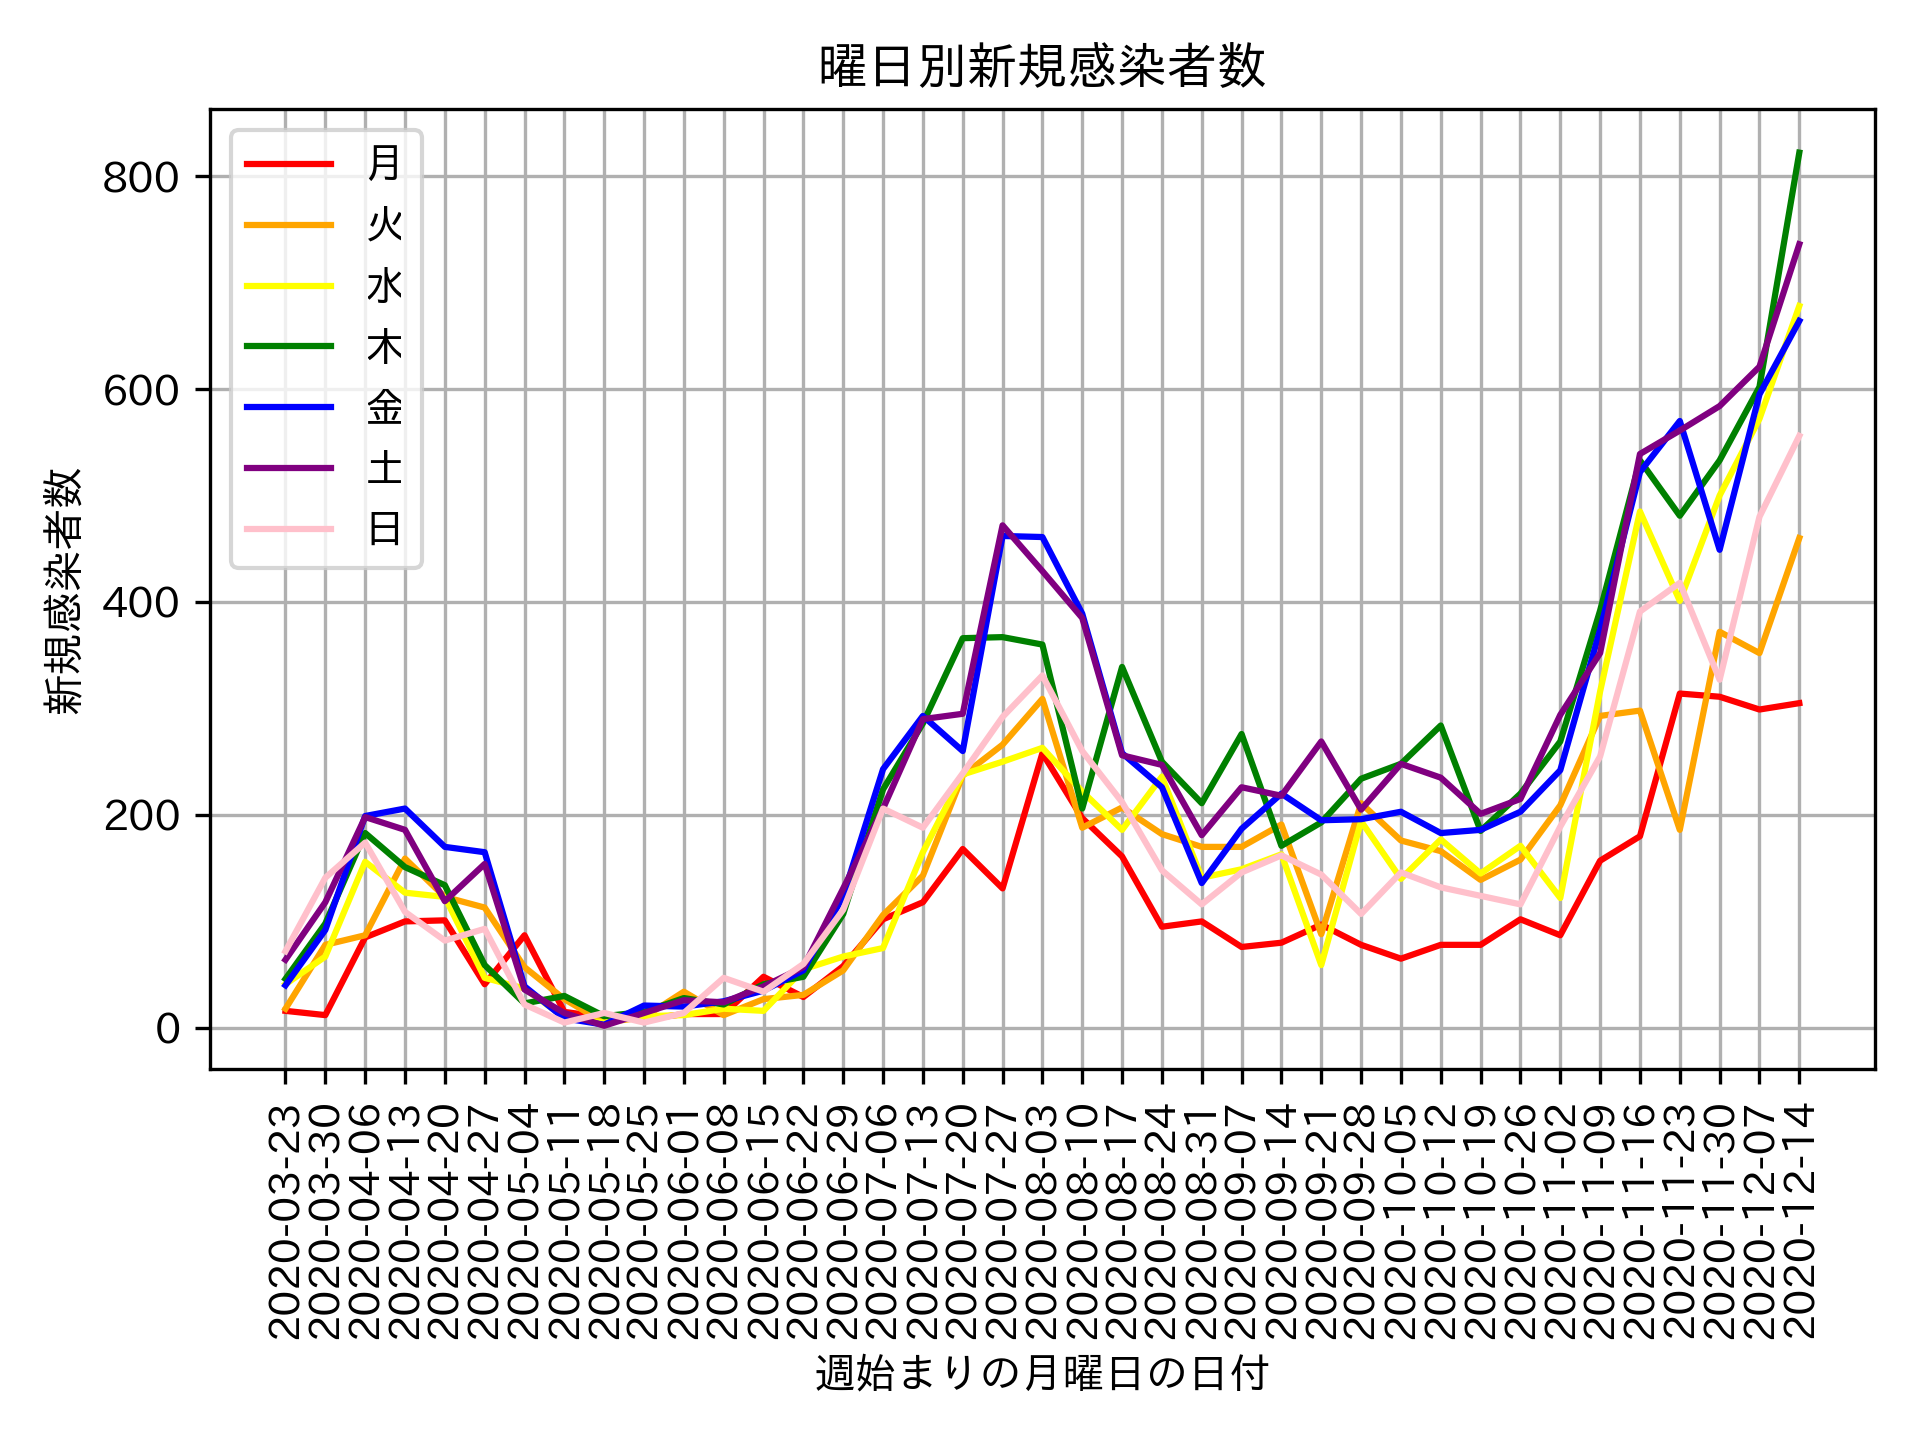
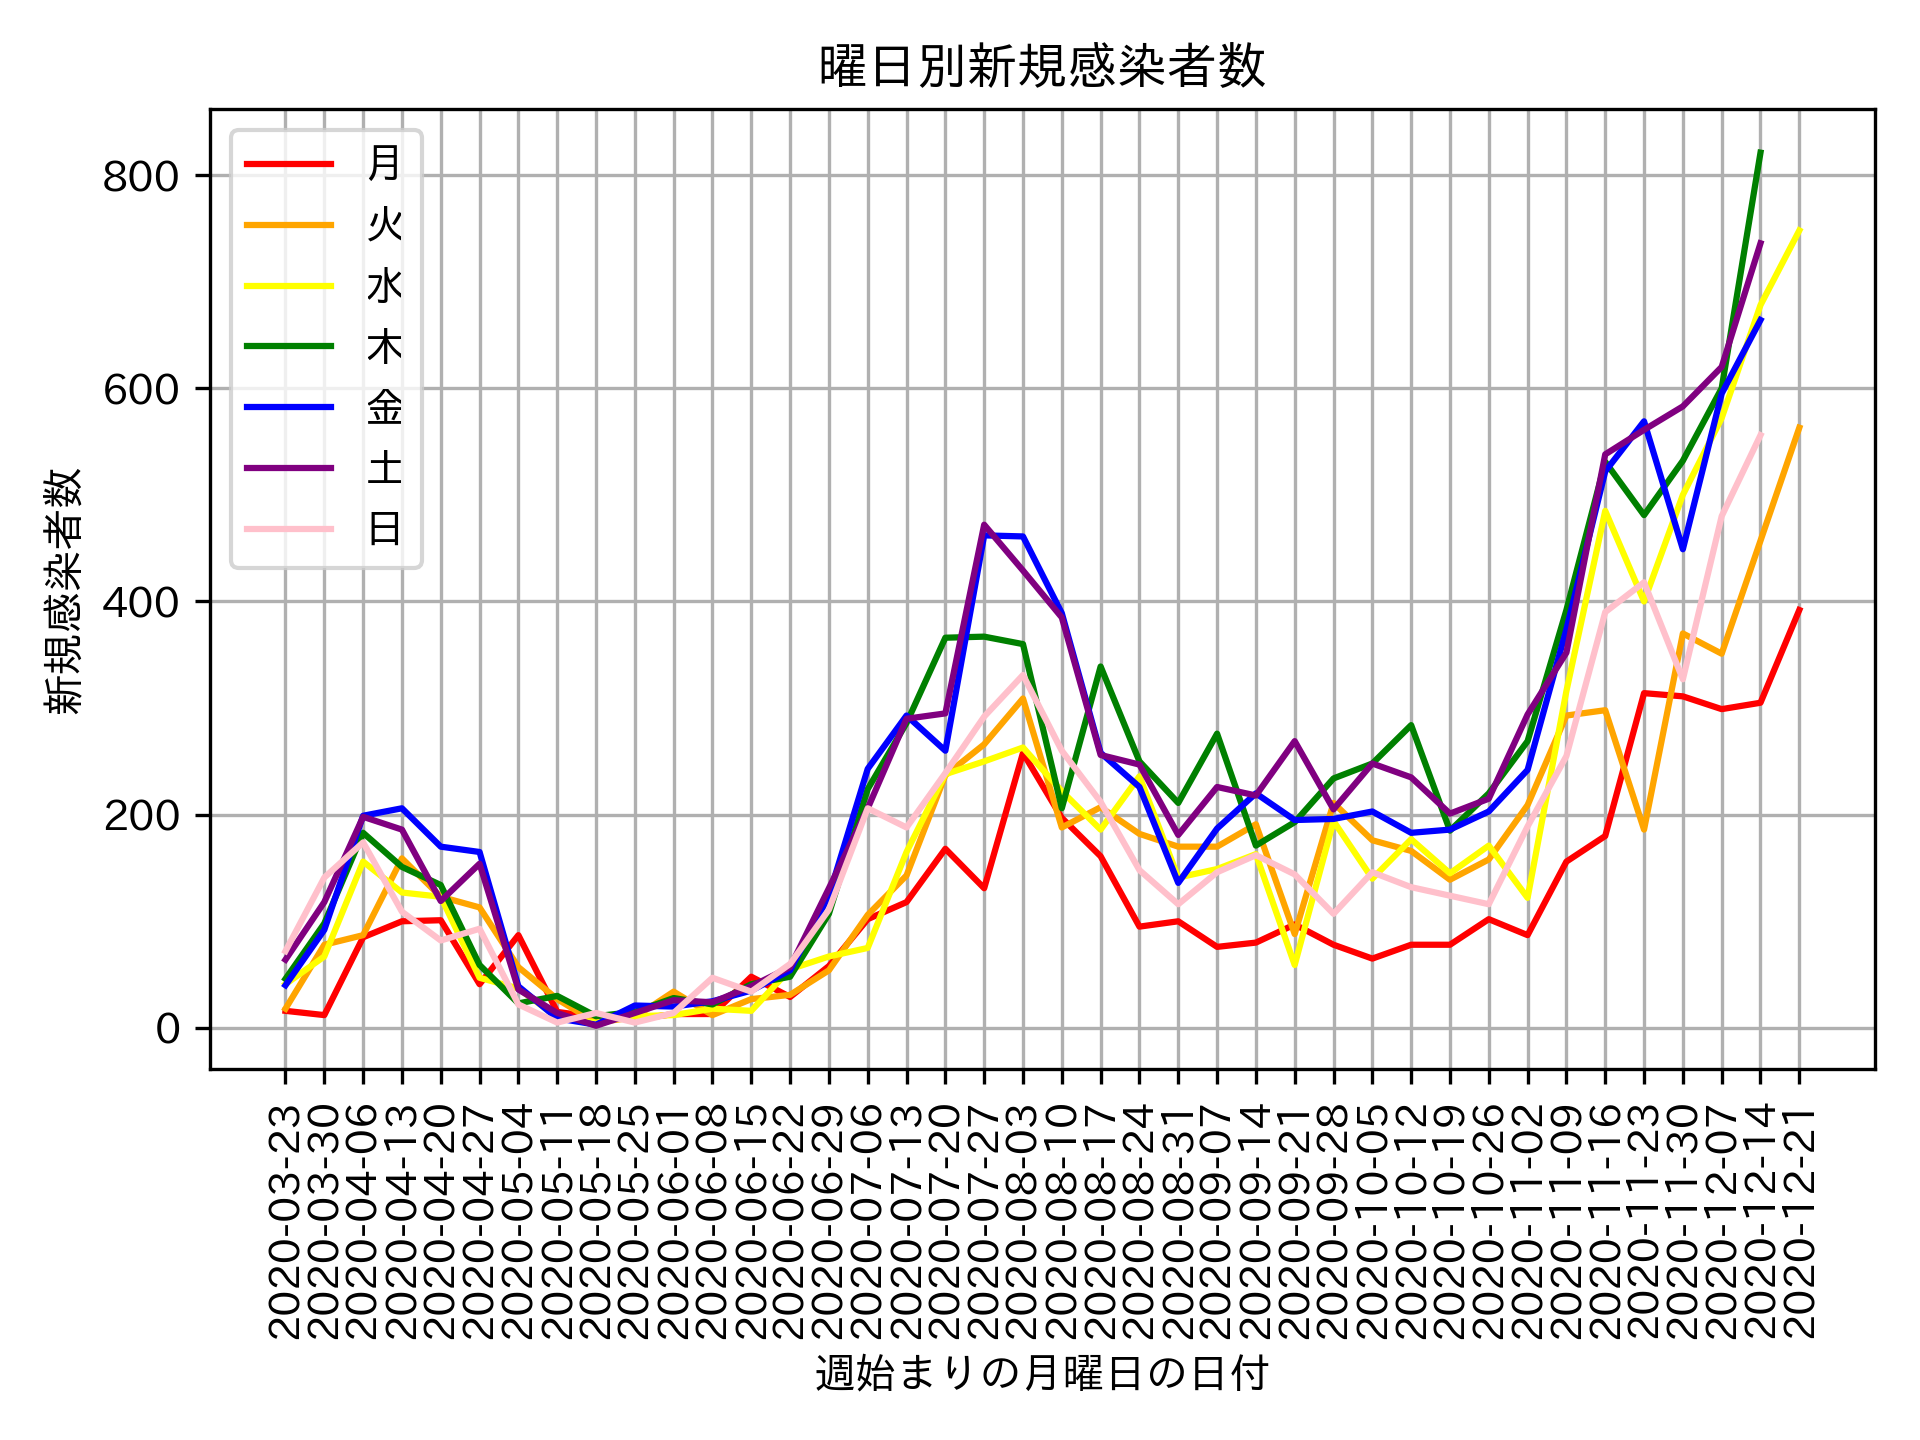
update 201224

Changed region(s): [[0.1562, 0.0625, 0.9375, 0.9375], [0.0625, 0.25, 0.0938, 0.2812]]

diff --git a/tokyo/daily-week.py b/tokyo/daily-week.py
@@ -95,11 +95,14 @@ ax.set_title('日別新規感染者数及び7日間平均') # グラフタイト
 ax.grid()            # 罫線
 #ax.set_xlim([-10, 10]) # x方向の描画範囲を指定
 #ax.set_ylim([0, 1])    # y方向の描画範囲を指定
-ax.plot(t_daily[:], y_daily[:], color='blue', label='新規感染者数')
-ax.plot(t_daily[:], y_mean7[:], color='red', label='7日間平均')
+# ax.plot(t_daily[:], y_daily[:], color='blue', label='新規感染者数')
+# ax.plot(t_daily[:], y_mean7[:], color='red', label='7日間平均')
+# ax.set_xticks(data_count[::7].index)       # 月曜日の日付のみ軸に表示する
+ax.plot(t_daily[7:], y_daily[7:], color='blue', label='新規感染者数')
+ax.plot(t_daily[7:], y_mean7[7:], color='red', label='7日間平均')
+ax.set_xticks(data_count[7::7].index)       # 月曜日の日付のみ軸に表示する
 # ax.legend(loc=0)    # 凡例
 ax.legend()
-ax.set_xticks(data_count[::7].index)       # 月曜日の日付のみ軸に表示する
 plt.xticks(rotation=90)     # x軸の文字を90度回転
 fig.tight_layout()  # レイアウトの設定（保存の直前に入れて調整）
 plt.savefig('tokyo/daily.png', dpi=300) # 画像の保存
@@ -117,12 +120,15 @@ ax.set_title('日別新規感染者数及び7日間平均') # グラフタイト
 ax.grid()            # 罫線
 #ax.set_xlim([-10, 10]) # x方向の描画範囲を指定
 #ax.set_ylim([0, 1])    # y方向の描画範囲を指定
-ax.plot(t_daily[:], y_daily[:], color='blue', label='新規感染者数')
-ax.plot(t_daily[:], y_mean7[:], color='red', label='7日間平均')
+# ax.plot(t_daily[:], y_daily[:], color='blue', label='新規感染者数')
+# ax.plot(t_daily[:], y_mean7[:], color='red', label='7日間平均')
+# ax.set_xticks(data_count[::7].index)       # 月曜日の日付のみ軸に表示する
+ax.plot(t_daily[7:], y_daily[7:], color='blue', label='新規感染者数')
+ax.plot(t_daily[7:], y_mean7[7:], color='red', label='7日間平均')
+ax.set_xticks(data_count[7::7].index)       # 月曜日の日付のみ軸に表示する
 plt.yscale("log")
 # ax.legend(loc=0)    # 凡例
 ax.legend()
-ax.set_xticks(data_count[::7].index)       # 月曜日の日付のみ軸に表示する
 plt.xticks(rotation=90)     # x軸の文字を90度回転
 fig.tight_layout()  # レイアウトの設定（保存の直前に入れて調整）
 plt.savefig('tokyo/daily_log.png', dpi=300) # 画像の保存
